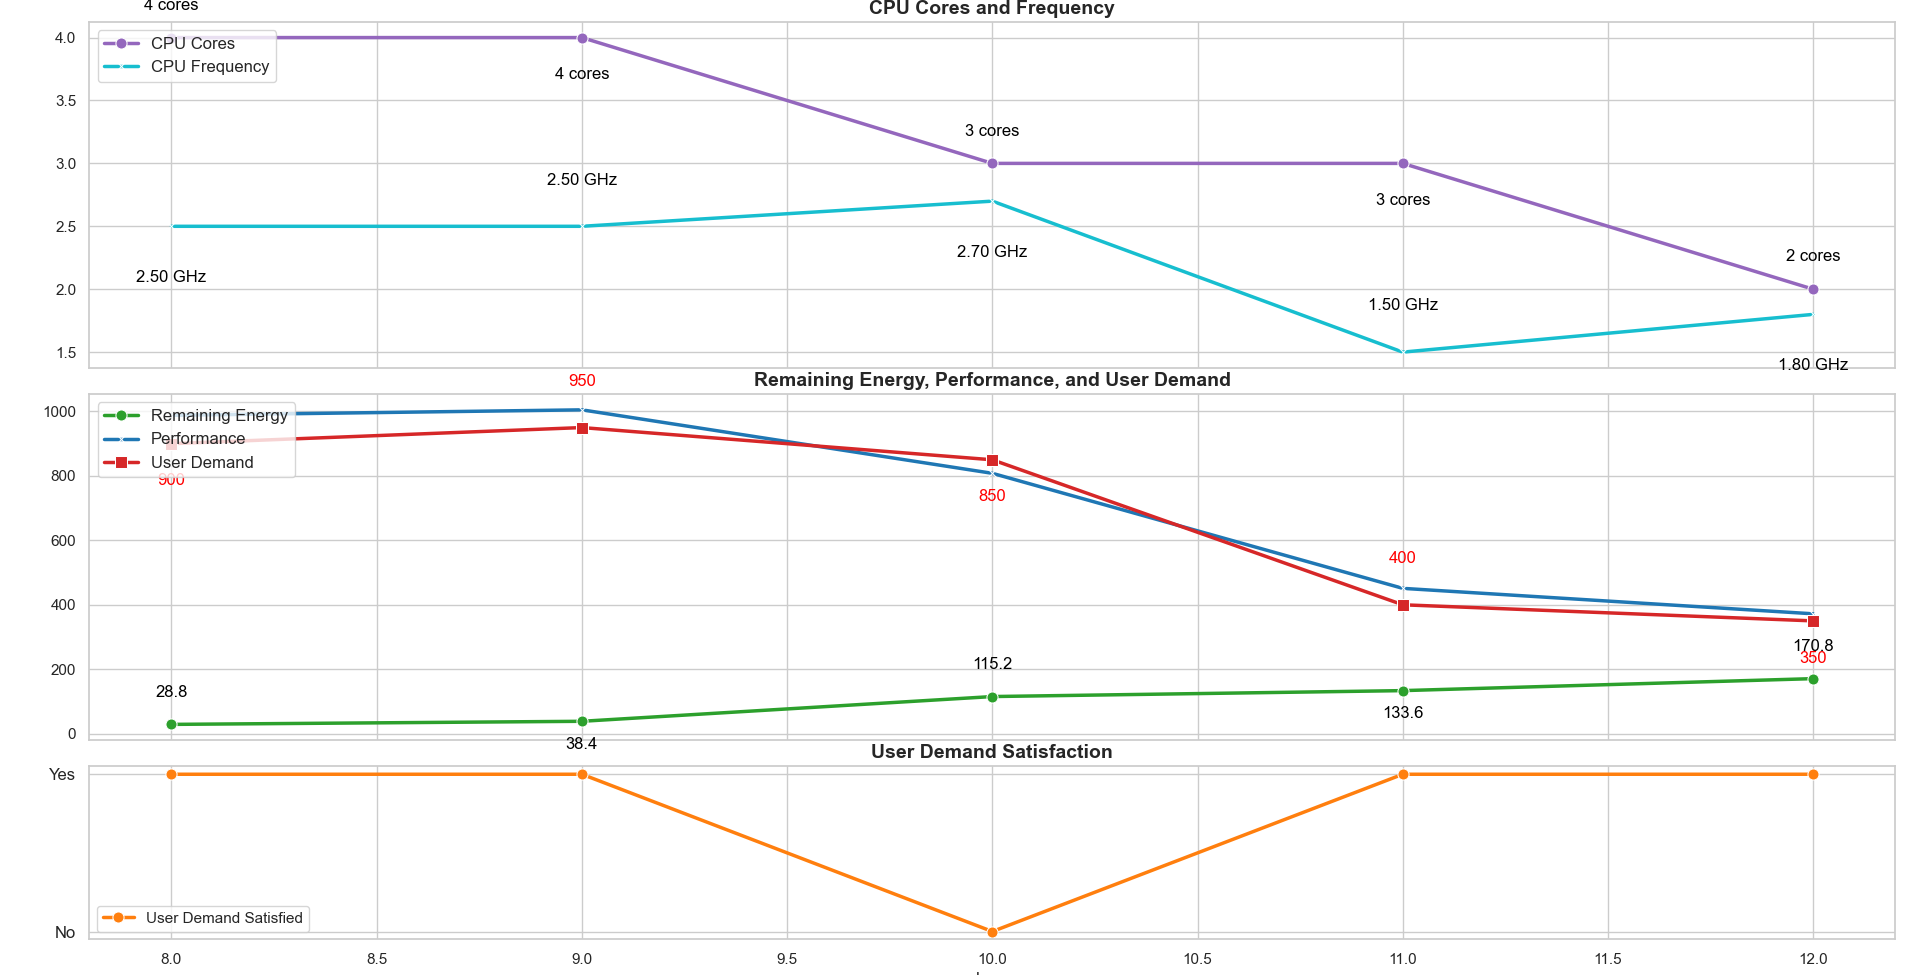
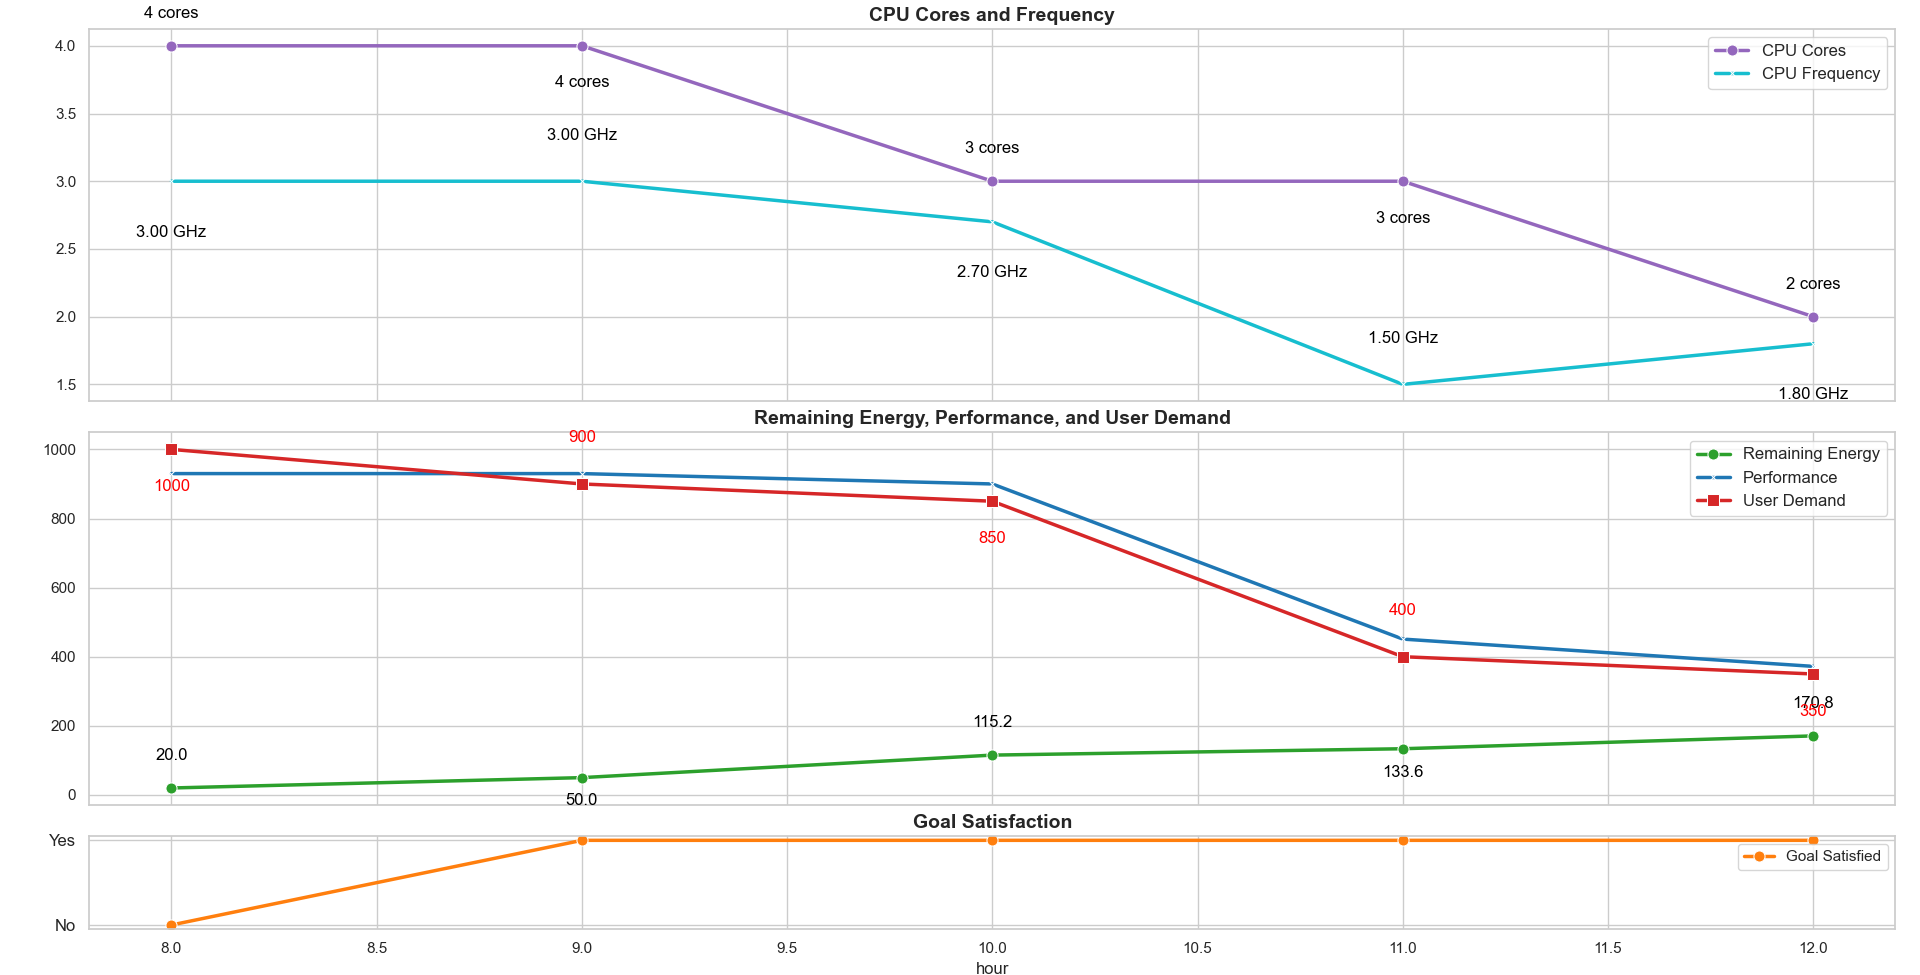
docs update

diff --git a/docs/ModelicaOrch/CaseStudy.md b/docs/ModelicaOrch/CaseStudy.md
@@ -54,7 +54,7 @@ A dynamically self-adaptive edge computing system that efficiently manages its r
 
 **Step 1:** Set up the configuration in `orchestration_config.json`:
 
-```json
+```shell
 {
     "DATA_FILE_PATH": "data/energy_available_and_user_demand.txt",
     "CONFIG_PATH": "config.json",
@@ -68,7 +68,7 @@ A dynamically self-adaptive edge computing system that efficiently manages its r
     },
     "OBJECTIVES": [
         {"name": "remainingEnergy", "maximize": true},
-        {"name": "performance", "maximize": true}
+        {"name": "performance", "maximize": true}  # computing power the system provides 
     ],
     "TUNABLE_PARAMETERS": {
         "PARAMETERS": ["activeCores", "cpuFrequency"],
@@ -85,7 +85,7 @@ A dynamically self-adaptive edge computing system that efficiently manages its r
     },
     "INPUT_PARAMETERS": {
         "available_energy": "availableEnergy",
-        "user_demand": "userDemand"
+        "user_demand": "userDemand"  # computing power the user needs
     },
     "CRITERIA": {
         "GOAL_EXPRESSION": "evaluation_results['performance'] >= simulation_inputs['user_demand']"
@@ -118,15 +118,15 @@ Finally, you will see the final report:
 
 ```shell
 Processing hour: 8  # 8 am
-Parameters set: {'activeCores': 4, 'cpuFrequency': 2.47}
-Performance: 988.34  # at 8 am user demand is high, the evaluated performance is 988.34 which satisfies user demand
+Parameters set: {'activeCores': 4, 'cpuFrequency': 3.00}
+Performance: 930  # at 8 am user demand is high, the evaluated performance is 930 which satisfies user demand
 User demand satisfied.
 
 ...
 
 Processing hour: 12  # 12 am
-Parameters set: {'activeCores': 2, 'cpuFrequency': 1.86}
-Performance: 372.13  # # at 12 am user demand is medium, the evaluated performance is 372.13 which satisfies user demand
+Parameters set: {'activeCores': 2, 'cpuFrequency': 1.80}
+Performance: 372  # # at 12 am user demand is medium, the evaluated performance is 372 which satisfies user demand
 User demand satisfied.
 
 Final Report:
